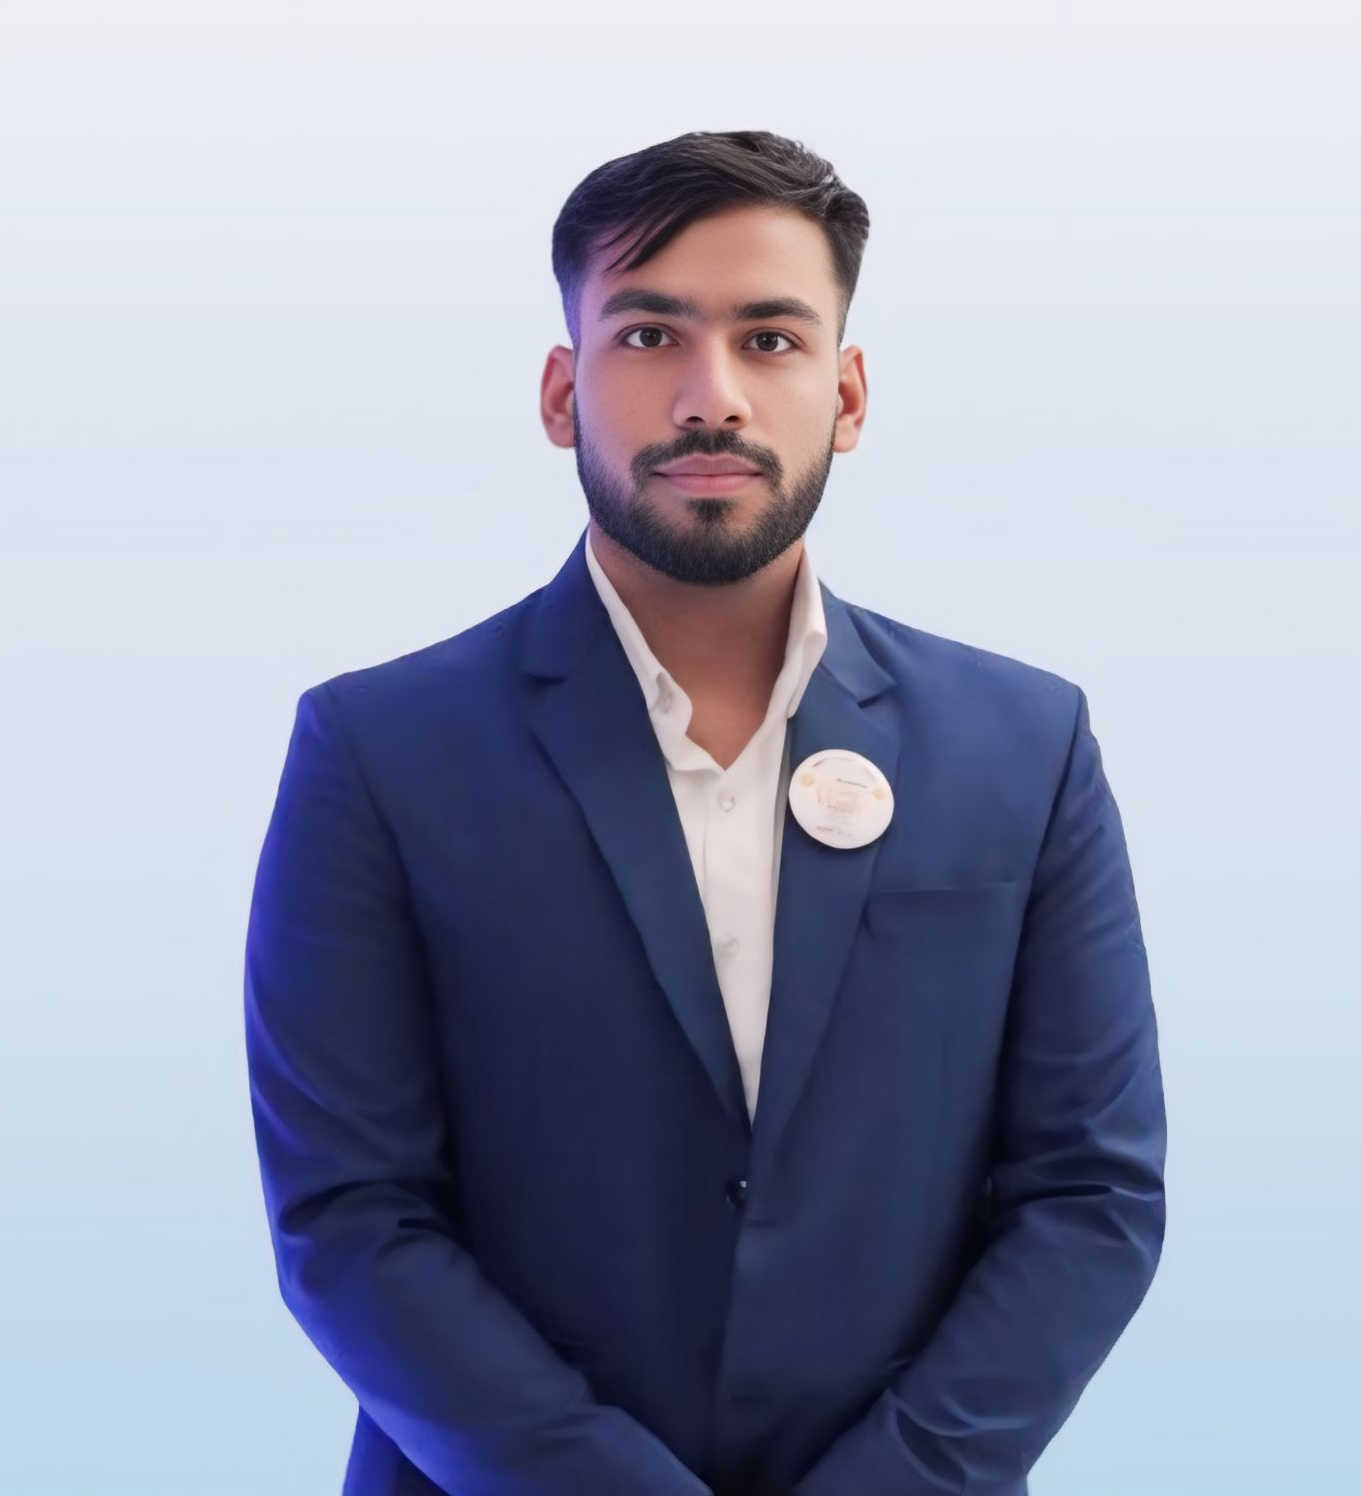
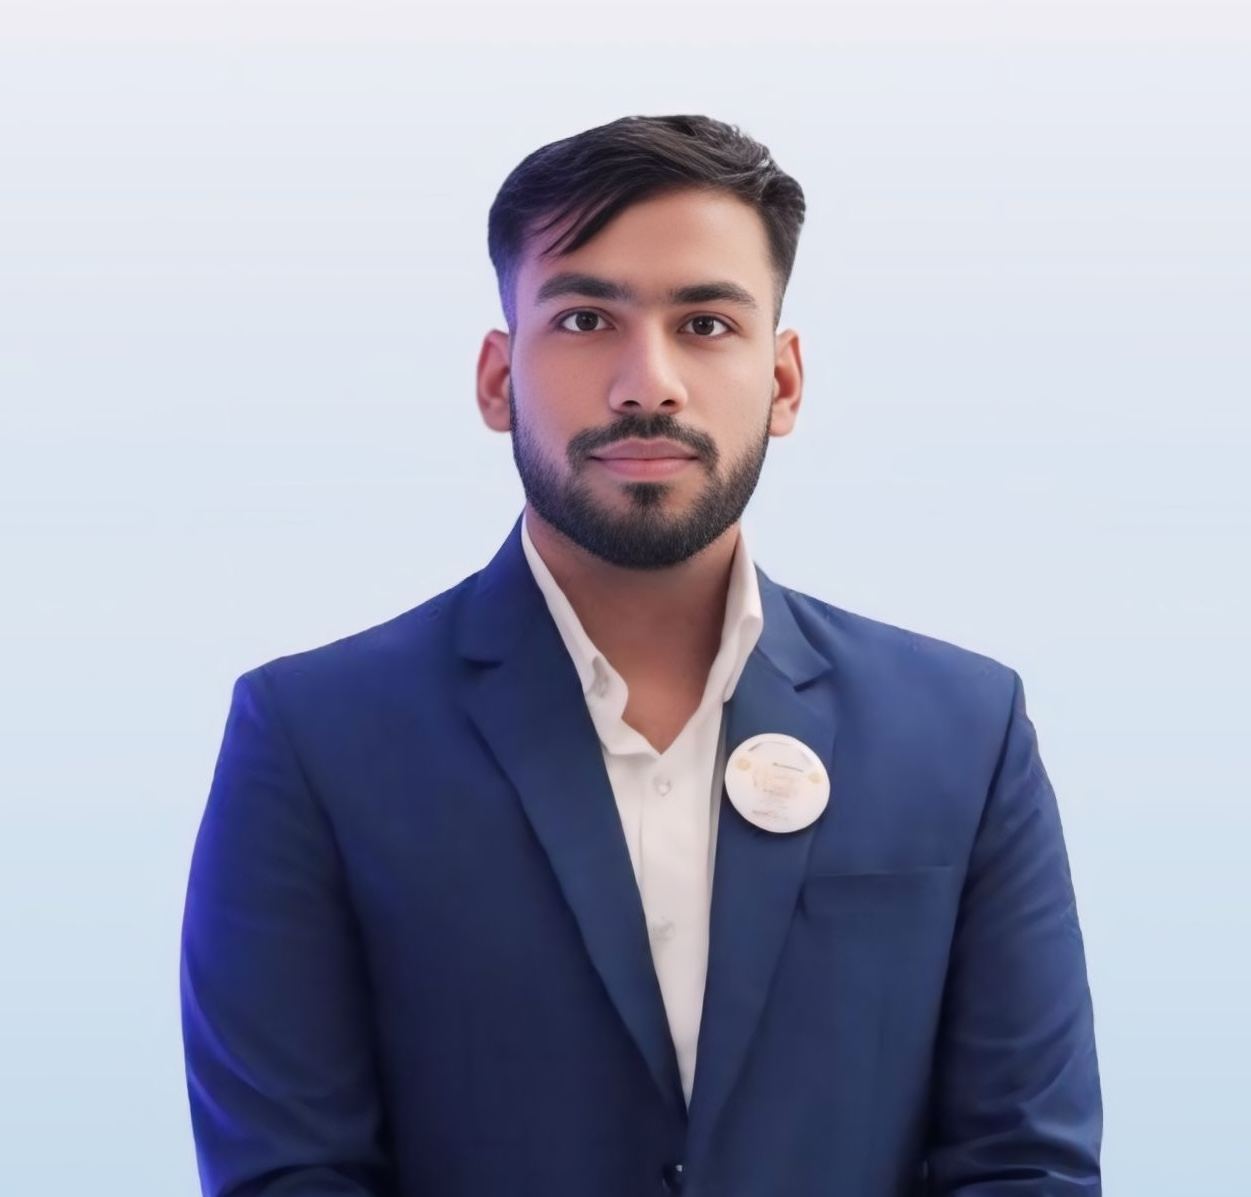
Style : Inhance UI in Tech page

Changed region(s): [[0.1247, 0.0618, 0.9041, 1.0], [0.8417, 0.6491, 0.8729, 0.68]]

diff --git a/src/pages/Team.jsx b/src/pages/Team.jsx
@@ -63,7 +63,7 @@ export default function Team() {
       <div className="relative z-10 max-w-7xl mx-auto">
         
         {/* Header */}
-        <div className="text-center mb-24">
+        <div className="text-center mb-15">
           <motion.div
             initial={{ opacity: 0, y: -10 }}
             animate={{ opacity: 1, y: 0 }}